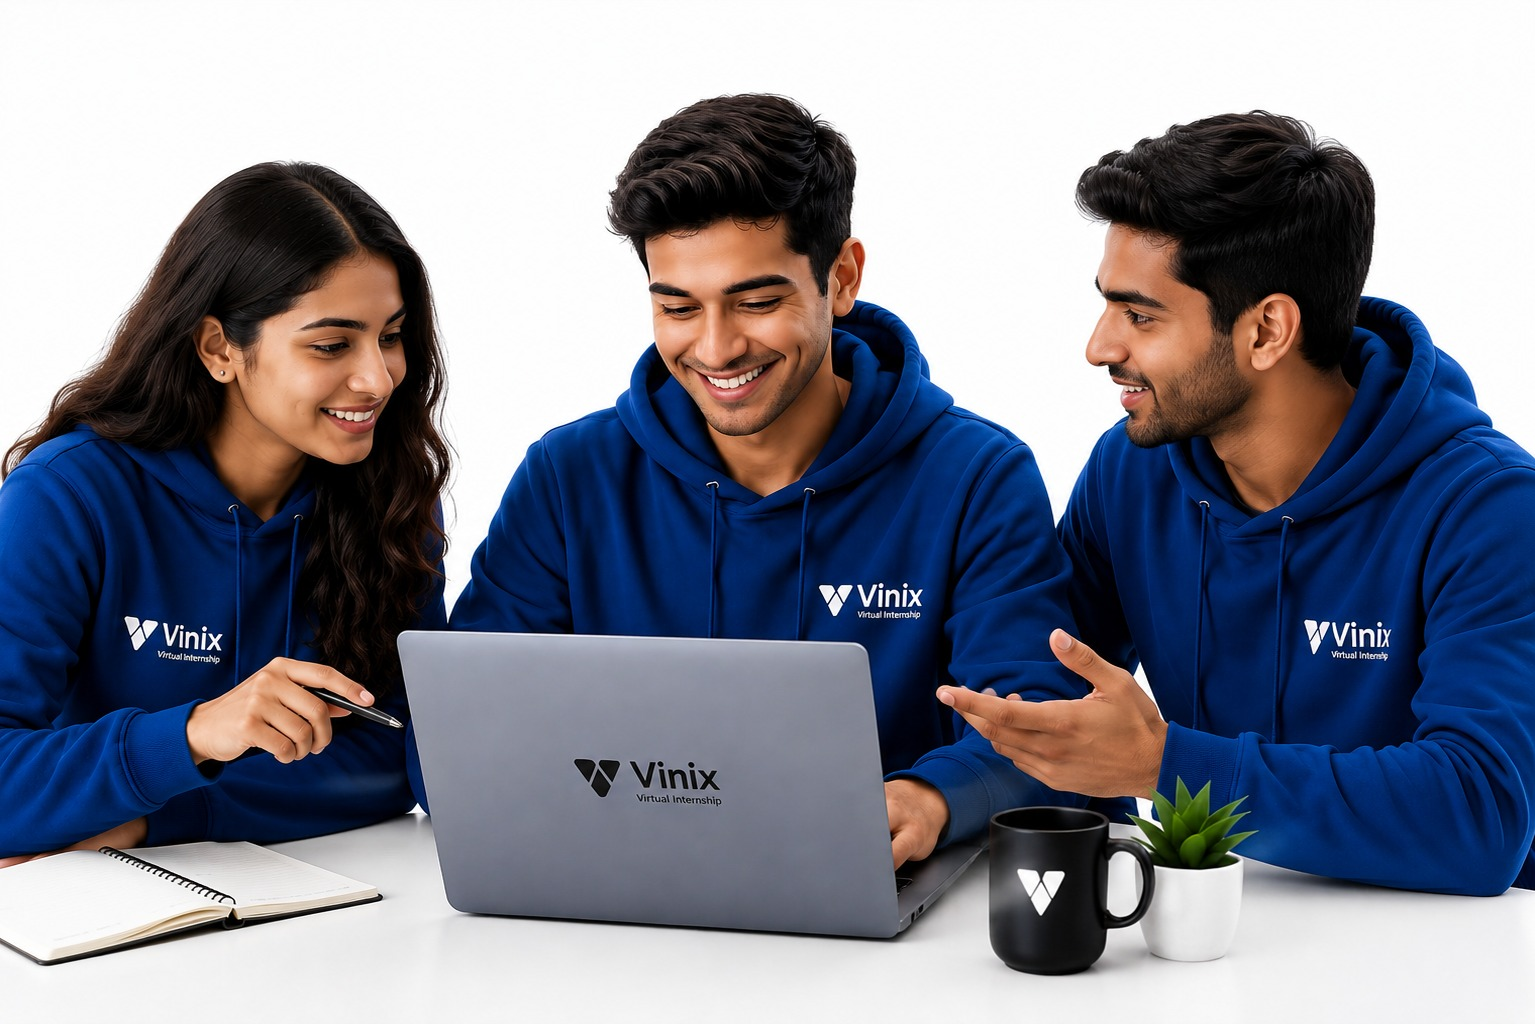
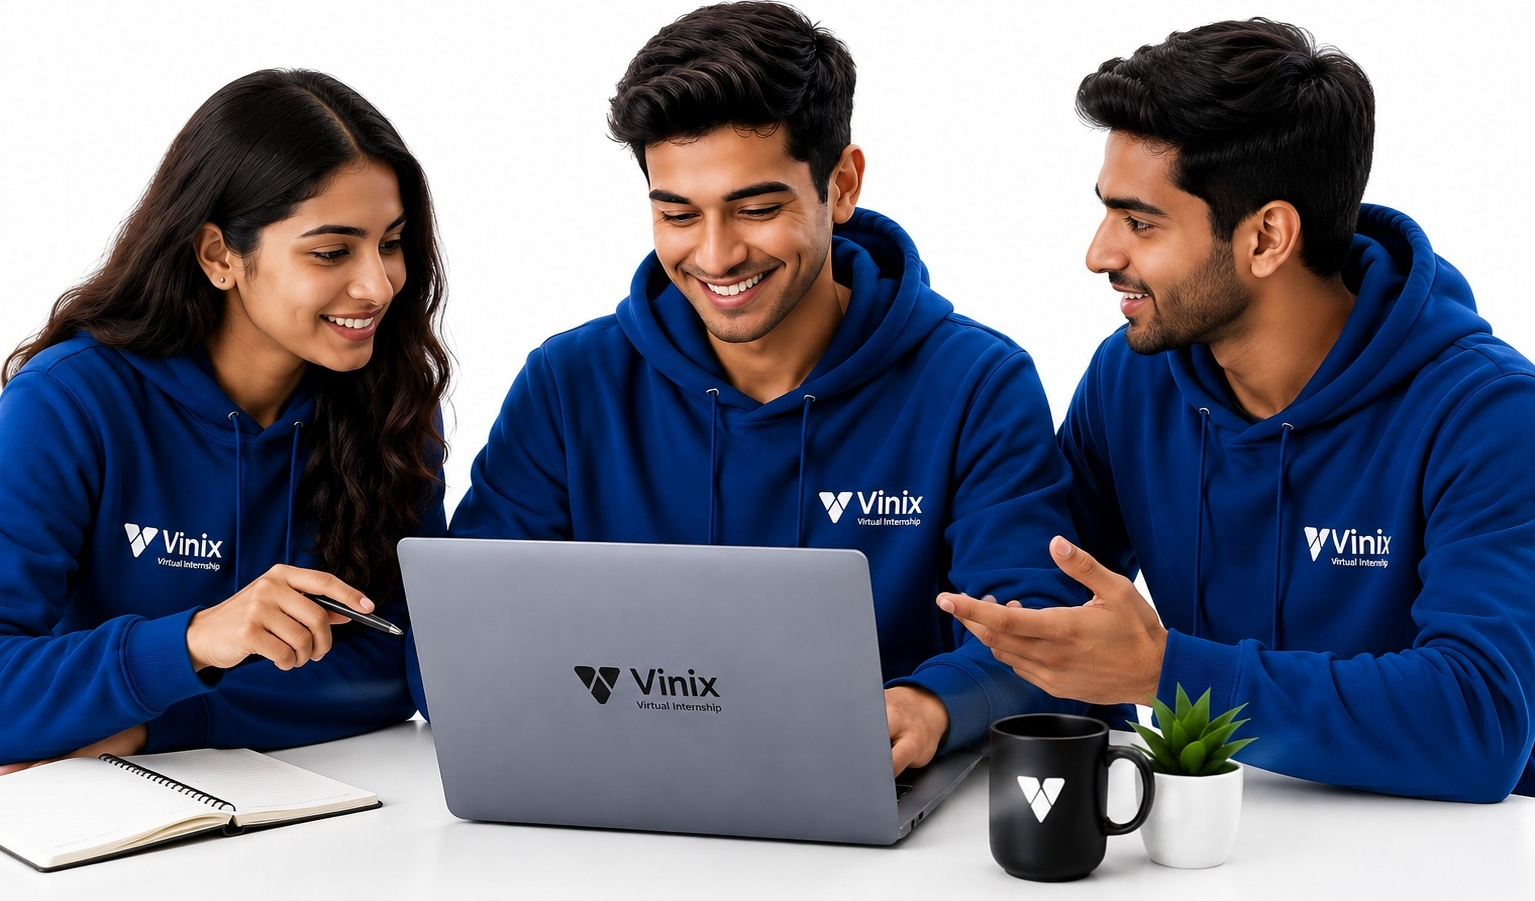
fix: remove drop shadow and crop bottom shadow from hero image

diff --git a/src/pages/Home.tsx b/src/pages/Home.tsx
@@ -349,7 +349,7 @@ export const Home: React.FC = () => {
                                 <img
                                     src={`${import.meta.env.BASE_URL}home-image.jpeg`}
                                     alt="Vinix Internships"
-                                    className="w-full h-full object-cover rounded-3xl border border-slate-100/50 shadow-md select-none transform hover:scale-[1.01] transition-transform duration-500"
+                                    className="w-full h-full object-cover rounded-3xl border border-slate-100/50 select-none transform hover:scale-[1.01] transition-transform duration-500"
                                 />
 
                                 {/* Overlay/floating cards: only display on screens that can fit them nicely */}
